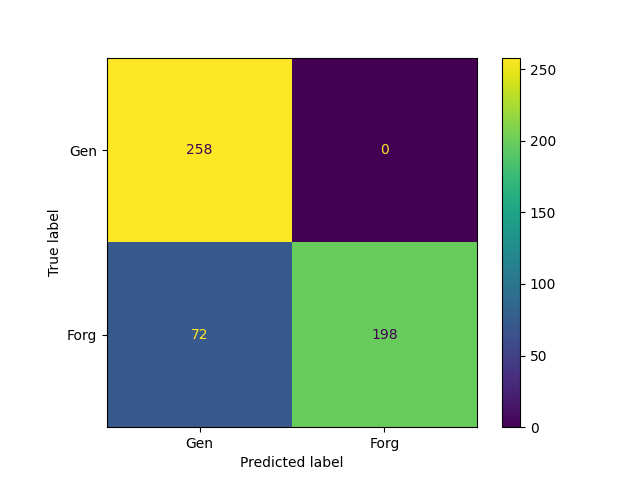
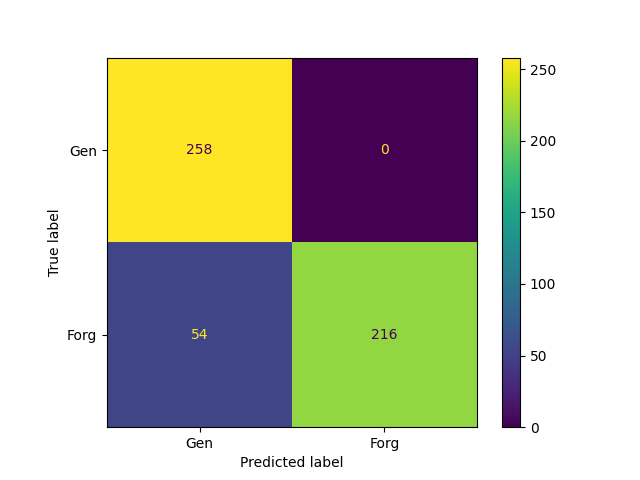
Compared K-values, created graph showing different K-values

Changed region(s): [[0.4375, 0.5, 0.75, 0.9062], [0.2812, 0.6875, 0.3438, 0.7188]]

diff --git a/SigClassifier.py b/SigClassifier.py
@@ -10,14 +10,34 @@ y = np.load("./TestDataSkimage/data/Y.npy", allow_pickle=True)
 
 x_train, x_test, y_train, y_test = sklearn.model_selection.train_test_split(x, y, test_size=0.2, shuffle=True, random_state=1) #delete random state for random results
 
-nn = neighbors.KNeighborsClassifier(n_neighbors=5)
-nn.fit(x_train,y_train)
-predictions = nn.predict(x_test)
+
+accuracies = []
+for i in range(1,21):
+    n_neighbors = i
+    nn = neighbors.KNeighborsClassifier(n_neighbors)
+    nn.fit(x_train,y_train)
+    predictions = nn.predict(x_test)
+    
+    acc = 0
+    for j in range(len(y_test)):
+        # If the prediciton matches the actual class, add 1 to the accumulator:
+        if y_test[j] == predictions[j]:
+            acc += 1
+    ###
+    
+    accuracies.append(round(acc/len(y_test), 3))
+###
+
+#print("ACCURACIES: ", accuracies)
+plt.plot([n for n in range(1,21)], accuracies, marker='o', linestyle='-')
+plt.grid(True)
+plt.savefig("./KNN_KVal_Comparison.png")
 
 # print(predictions)
 # "Class Value = " + x_test[i] + "----" + 
-for i in range(len(y_test)):
+'''for i in range(len(y_test)):
     print(f"true value: {y_test[i]} ---- prediction: {predictions[i]}")
+'''
 print(f"Length of y Test = {len(y_test)}")
 
 
